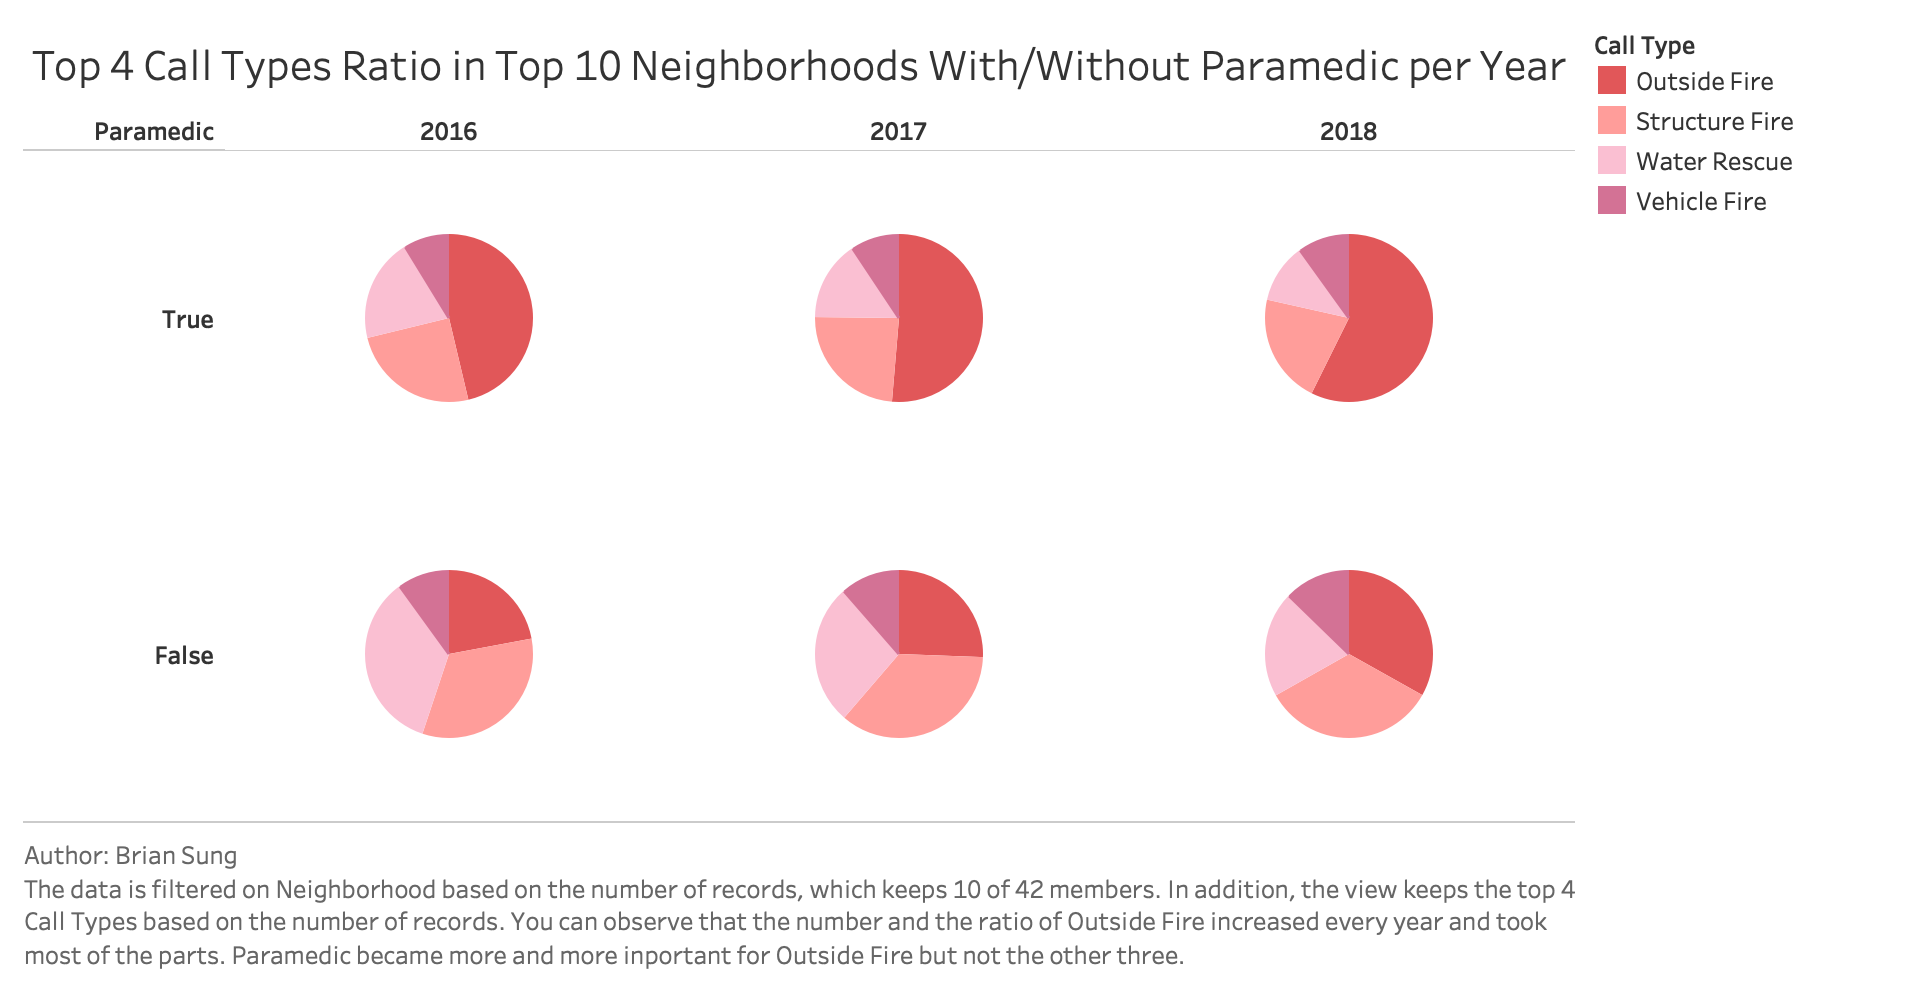
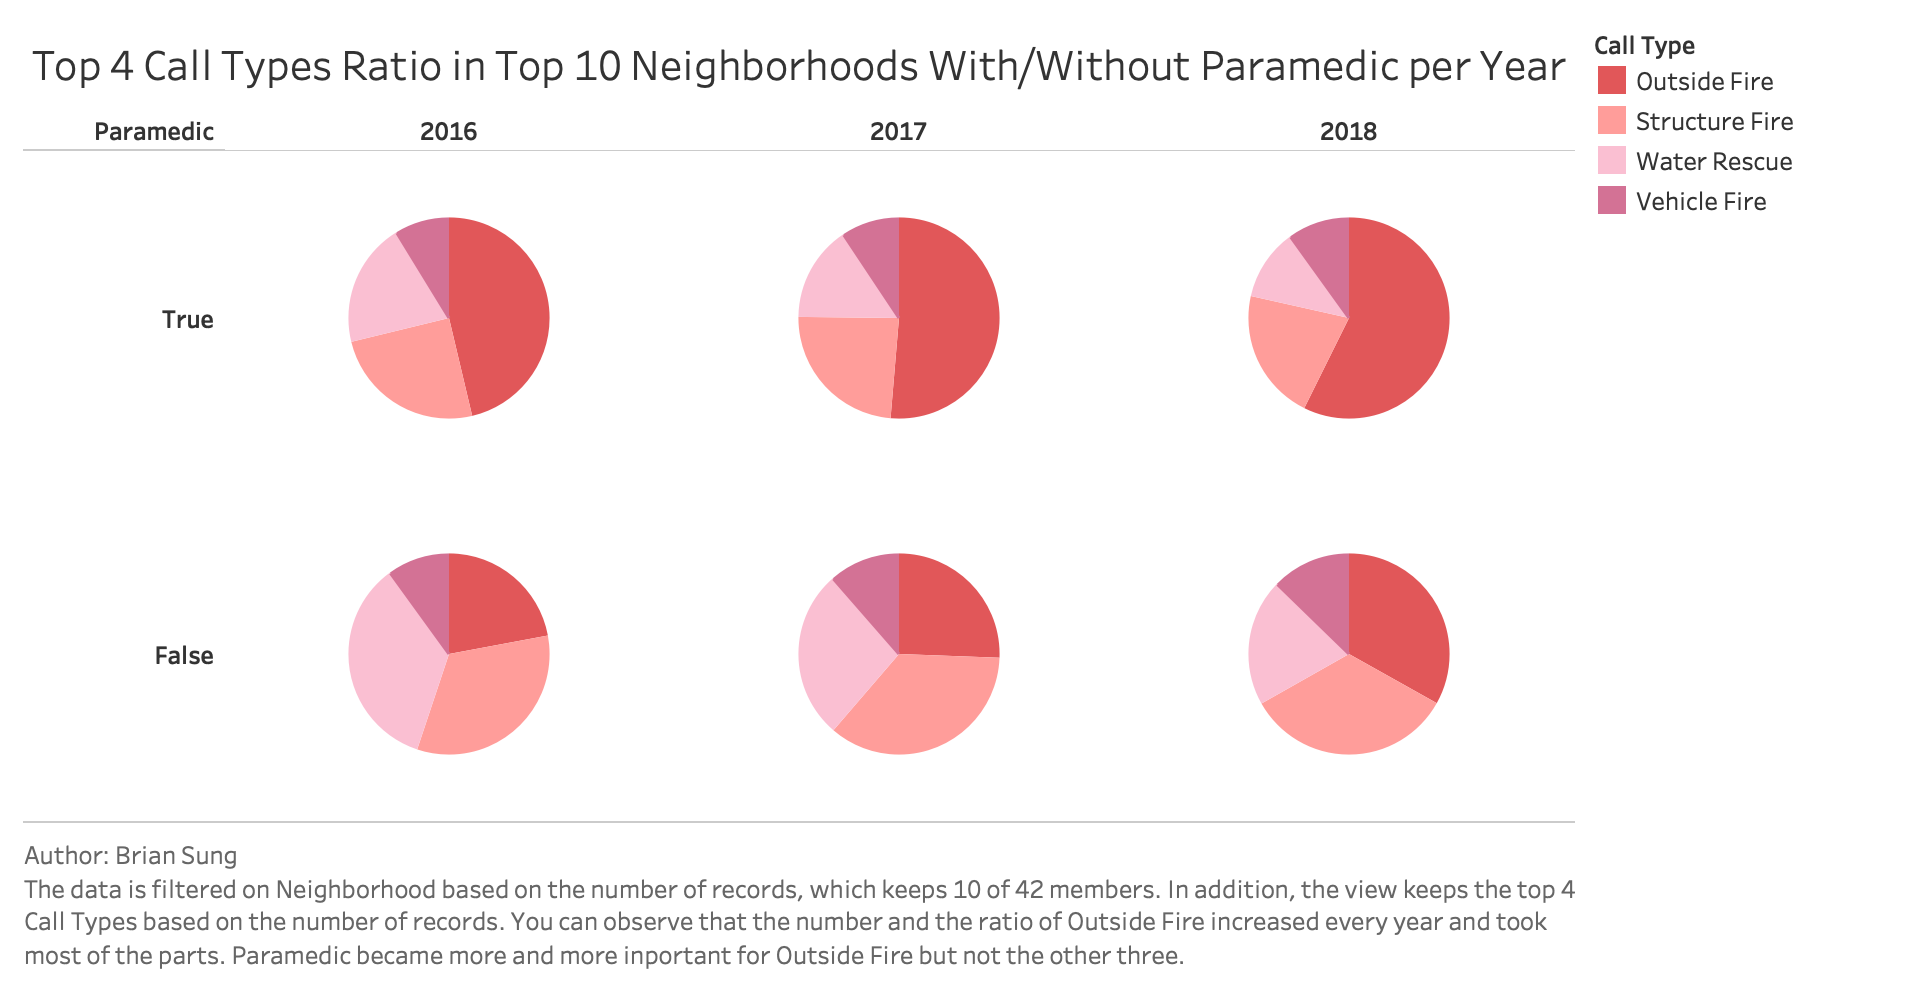
Finished Brian's pie chart

diff --git a/bvis.js b/bvis.js
@@ -391,12 +391,14 @@ pie = function(pieMap, topNeighborhood) {
   const plotHeight = bounds.height - margin.top - margin.bottom;
 
   // create x, y, color scales
-  let x = d3.scaleBand().domain(Object.keys(pieMap)).range([0, plotWidth]);
-  let y = d3.scaleBand().domain(["true", "false"]).range([0, plotHeight]);
+  let year_list = Object.keys(pieMap);
+  let paramedic_list = ["true", "false"];
+  let x = d3.scaleBand().domain(year_list).range([0, plotWidth]);
+  let y = d3.scaleBand().domain(paramedic_list).range([0, plotHeight]);
   let colorEntries = Object.entries(top4CallTypeAndColor);
-  let colors = colorEntries.map(e => e[1]);
-  let callTypes = colorEntries.map(e => e[0]);
-  let colorScale = d3.scaleOrdinal().range(colors).domain(callTypes);
+  let color_list = colorEntries.map(e => e[1]);
+  let call_list = colorEntries.map(e => e[0]);
+  let colorScale = d3.scaleOrdinal().range(color_list).domain(call_list);
 
   //  create plot
   let plot = svg.append("g");
@@ -439,6 +441,47 @@ pie = function(pieMap, topNeighborhood) {
     .attr("y1", plotHeight)
     .attr("x2", margin.left + plotWidth)
     .attr("y2", plotHeight);
+
+  // create one group per row
+  let rows = plot.selectAll("g.cell")
+    .data(paramedic_list)
+    .enter()
+    .append("g");
+
+  rows.attr("class", "cell");
+  rows.attr("id", function(d) { return "Paramedic-" + d; });
+  rows.attr("transform", function(d) { return translate(margin.left, margin.top + y(d) + 17); });
+
+  // create one pie per cell within row group
+  let cells = rows.selectAll("g")
+    .data(function(d) {
+      return year_list.map(
+        function(p) {
+          return {
+            "year": p,
+            "paramedic": d,
+            "values": pieMap[p][d]
+          };
+        }
+      );
+    })
+    .enter()
+    .append("g");
+
+  cells.attr("transform", function(d) { return translate(x(d["year"]) + margin.left * 2 + 5, 0); });
+  cells.attr("width", x.bandwidth());
+  cells.attr("height", y.bandwidth());
+
+  let pie = d3.pie().sort(null).value(function(d) { return d[1]; });
+  let arc = d3.arc().innerRadius(0).outerRadius(50);
+  let pies = cells.selectAll(".pies")
+		.data(function(d) { return pie(Object.entries(d["values"])); })
+		.enter()
+		.append("g");
+
+  pies.append("path")
+    .attr("d", arc)
+    .attr("fill", function(d){ return colorScale(d["data"][0]); });
 
   // legend
   let legend = plot.selectAll(".legend")
